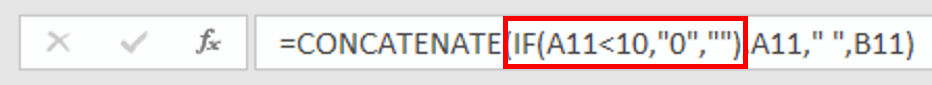
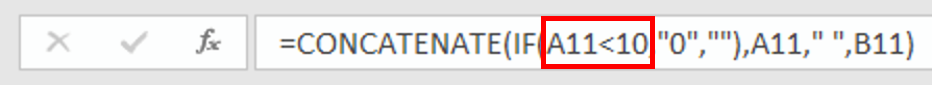
revising concatenate

Changed region(s): [[0.6845, 0.1882, 0.809, 0.8235], [0.529, 0.1882, 0.5912, 0.8235]]

diff --git a/index.html b/index.html
@@ -1226,7 +1226,7 @@ class:center,middle
 ---
 
 # Nested Functions
-![img-center-100](images/concat_form0_rev.png)
+![img-center-100](images/concat_form1_rev.png)
 
 1. Test the value in Cell A11 to see if it's less than 10
 2. `IF` it's less than 10, add a 0, otherwise, add an empty string (`""`)
